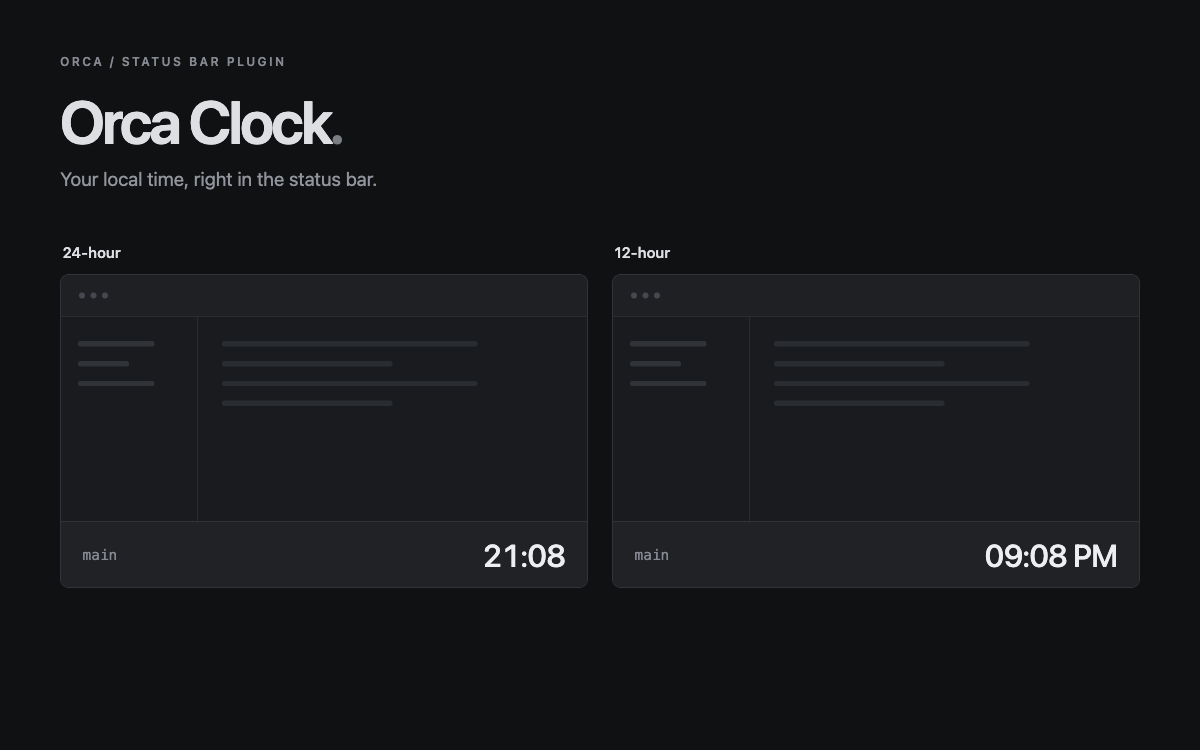
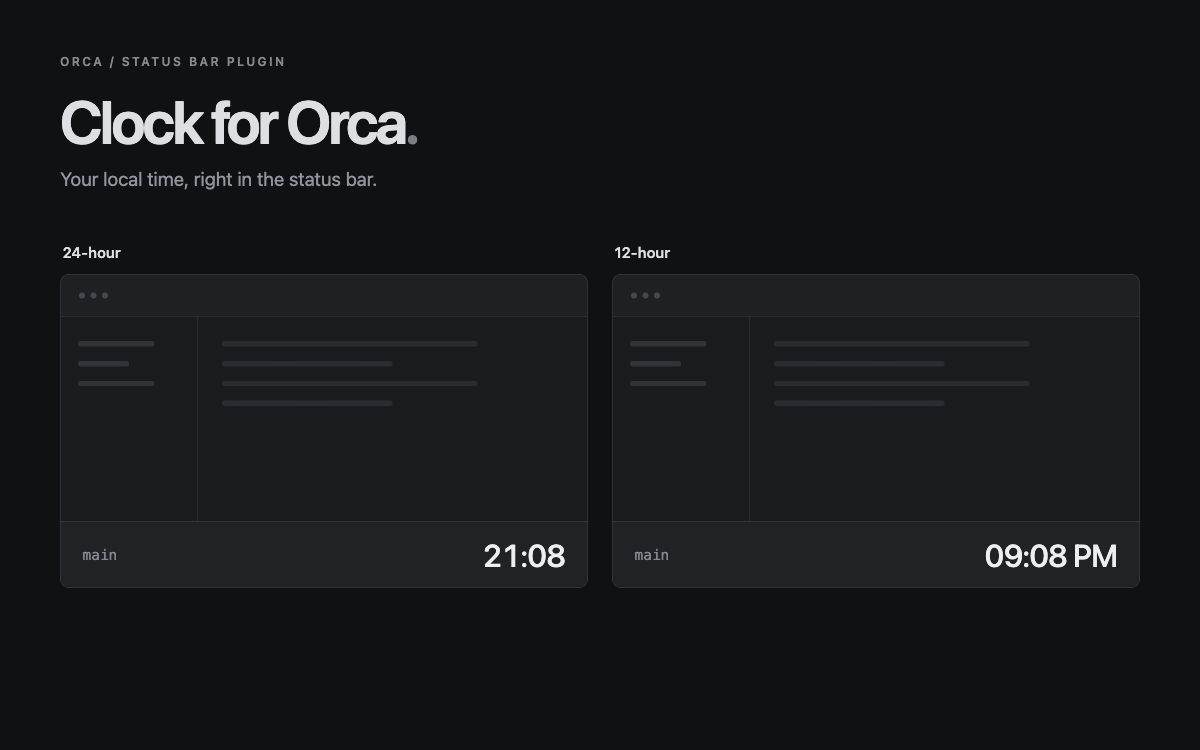
Rename plugin to Clock for Orca for marketplace eligibility

Changed region(s): [[0.0617, 0.1227, 0.3392, 0.2147]]

diff --git a/media/mockup.html b/media/mockup.html
@@ -3,7 +3,7 @@
   <head>
     <meta charset="utf-8">
     <meta name="viewport" content="width=device-width, initial-scale=1">
-    <title>Orca Clock — cover mockup</title>
+    <title>Clock for Orca — cover mockup</title>
     <style>
       * {
         box-sizing: border-box;
@@ -155,9 +155,9 @@
   </head>
   <body>
     <main class="preview">
-      <article class="cover" id="cover-art" aria-label="Orca Clock plugin cover">
+      <article class="cover" id="cover-art" aria-label="Clock for Orca plugin cover">
         <p class="eyebrow">ORCA / STATUS BAR PLUGIN</p>
-        <h1>Orca Clock<span>.</span></h1>
+        <h1>Clock for Orca<span>.</span></h1>
         <p class="subtitle">Your local time, right in the status bar.</p>
 
         <div class="formats">

diff --git a/README.md b/README.md
@@ -1,10 +1,10 @@
-# Orca Clock
+# Clock for Orca
 
 Shows the current local hours and minutes in Orca's bottom status bar, using
 Node's default locale and the local time zone. Requires
 Orca 1.4.248 or newer. No dependencies or build step.
 
-In Orca Settings, under the Orca Clock plugin, set **Hour format** to **Locale
+In Orca Settings, under the Clock for Orca plugin, set **Hour format** to **Locale
 default**, **12-hour**, or **24-hour**. Changes apply immediately. Locale default
 preserves the original behavior; it may not reflect a macOS clock-format override.
 
@@ -32,7 +32,7 @@ there is no panel to render.
 ## Install
 
 ```sh
-orca plugin install alexesprit/orca-clock@v0.1.0 --json
+orca plugin install alexesprit/orca-clock@v0.1.1 --json
 ```
 
 Orca returns `approval_required` and an exact command with `--approve <fingerprint>`.
